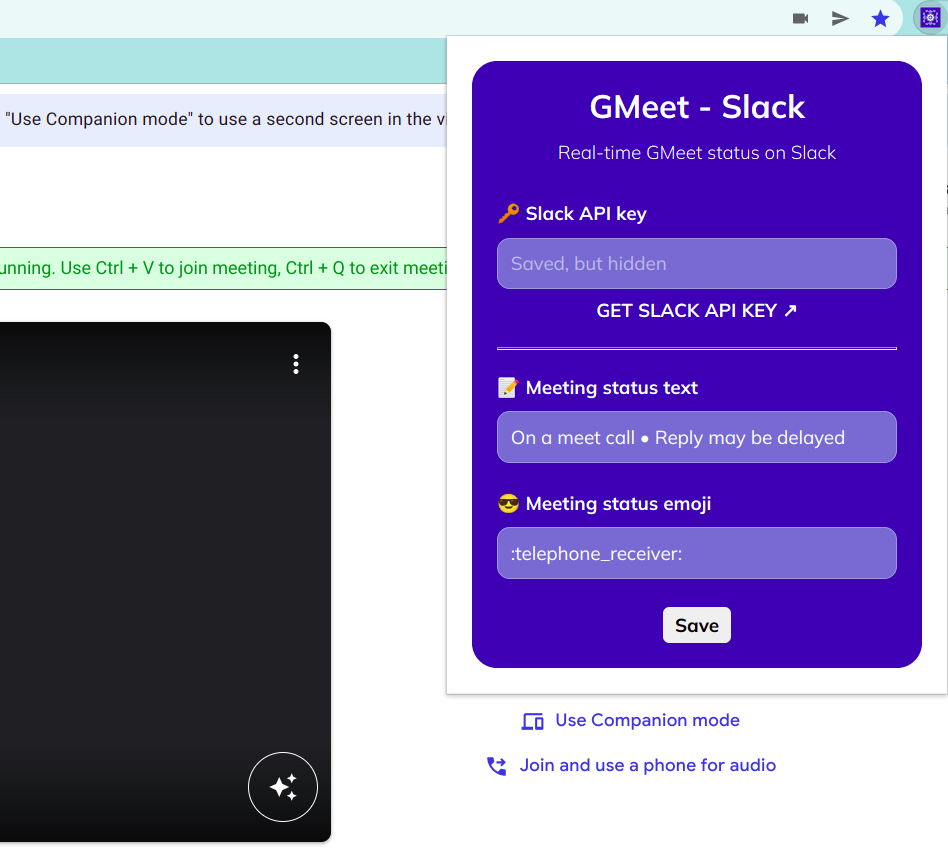
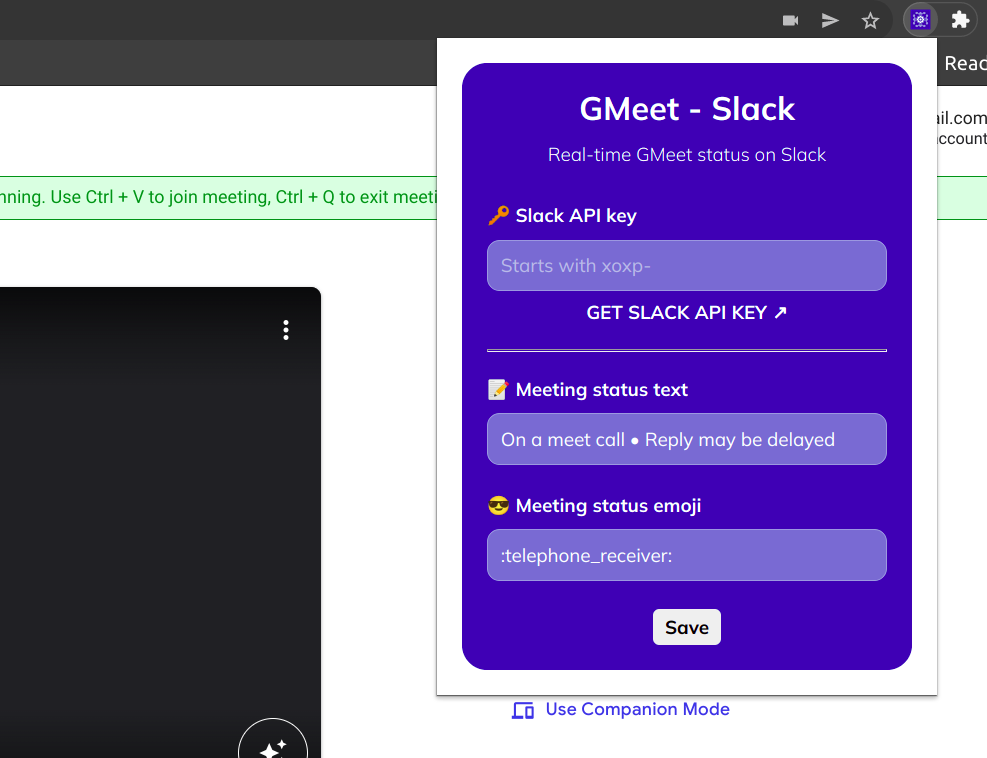
Update README

diff --git a/README.md b/README.md
@@ -8,8 +8,7 @@
 {video}
 
 # Installation
-## Install chrome extension
-<a href="https://chrome.google.com/webstore/detail/meet-slack-status/kddjlbegfaiogihndmglihcgommbjmkc" target="_blank">Get Chrome extension ↗</a>
+<a href="https://chrome.google.com/webstore/detail/meet-slack-status/kddjlbegfaiogihndmglihcgommbjmkc" target="_blank">Get Chrome extension</a>
 
 ## Configure chrome extension
 Once installed, open a new tab and type `meet.new` in the address bar, to join a test meeting. Now find and open the extension that has been installed from extensions list (puzzle icon).
@@ -18,7 +17,9 @@ Once installed, open a new tab and type `meet.new` in the address bar, to join a
 
 Chrome extension requires three inputs:
 ### 1. Slack API key
-Click `GET SLACK API KEY` to install the slack app. 
+Click `GET SLACK API KEY` to install the slack app.
+> Slack API key starts with `xoxp-` 
+
 > Make sure to install the slack app to the correct workspace, where you want your status to be automatically updated.
 
 See FAQs for more help.
